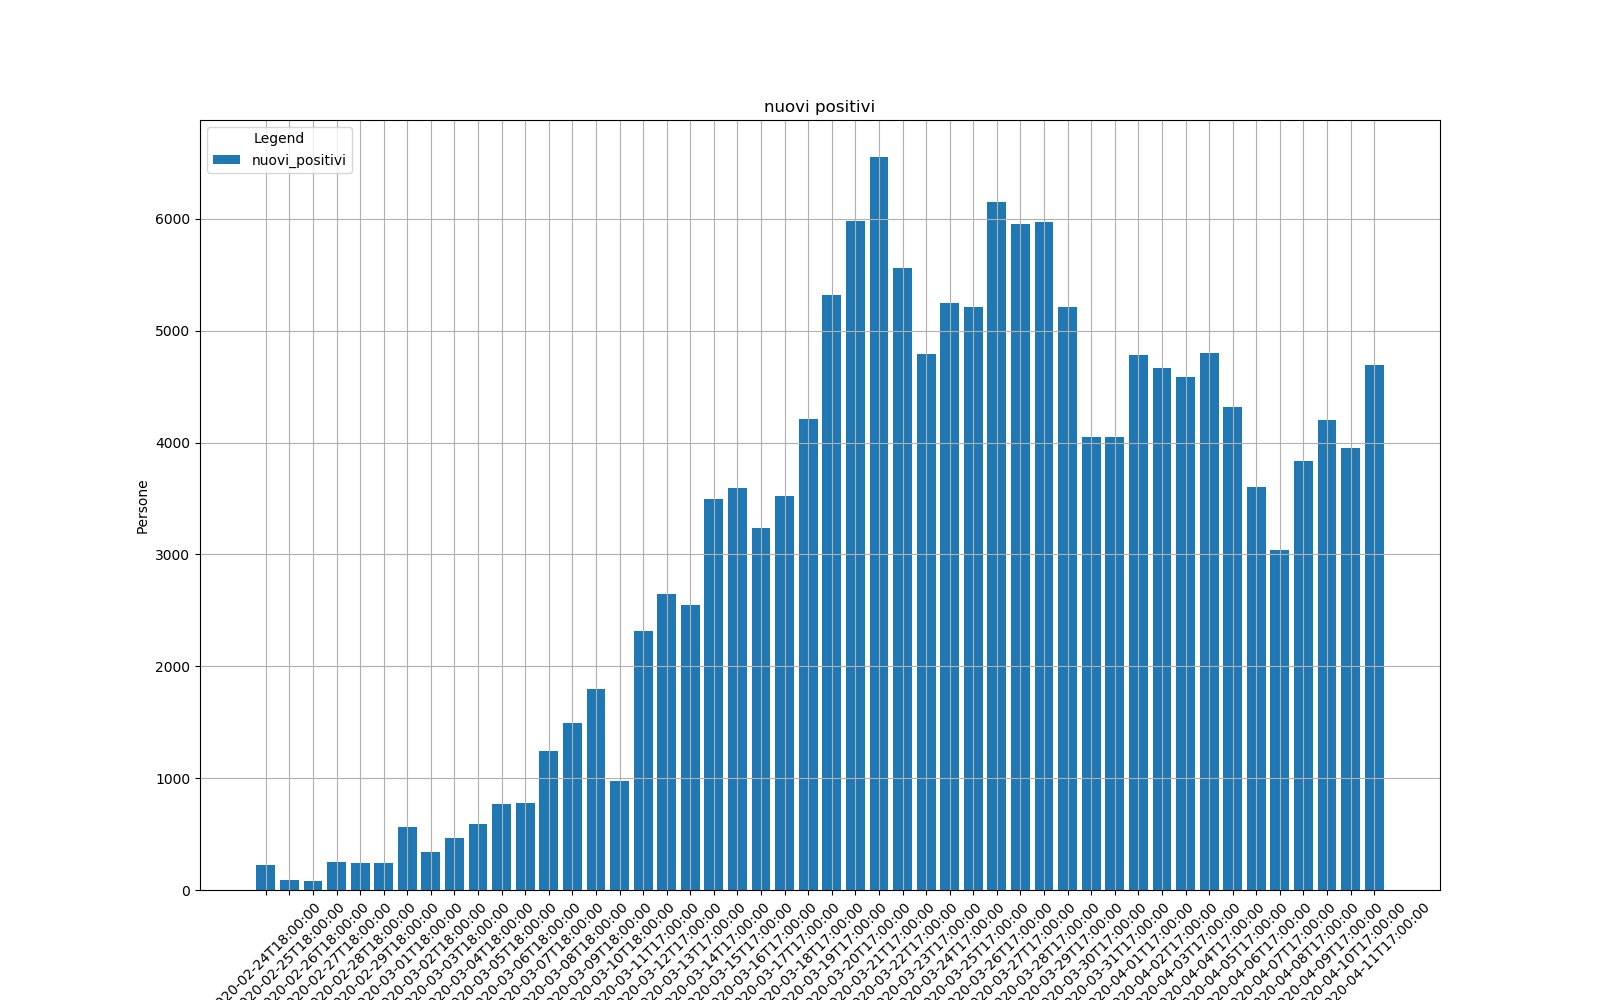
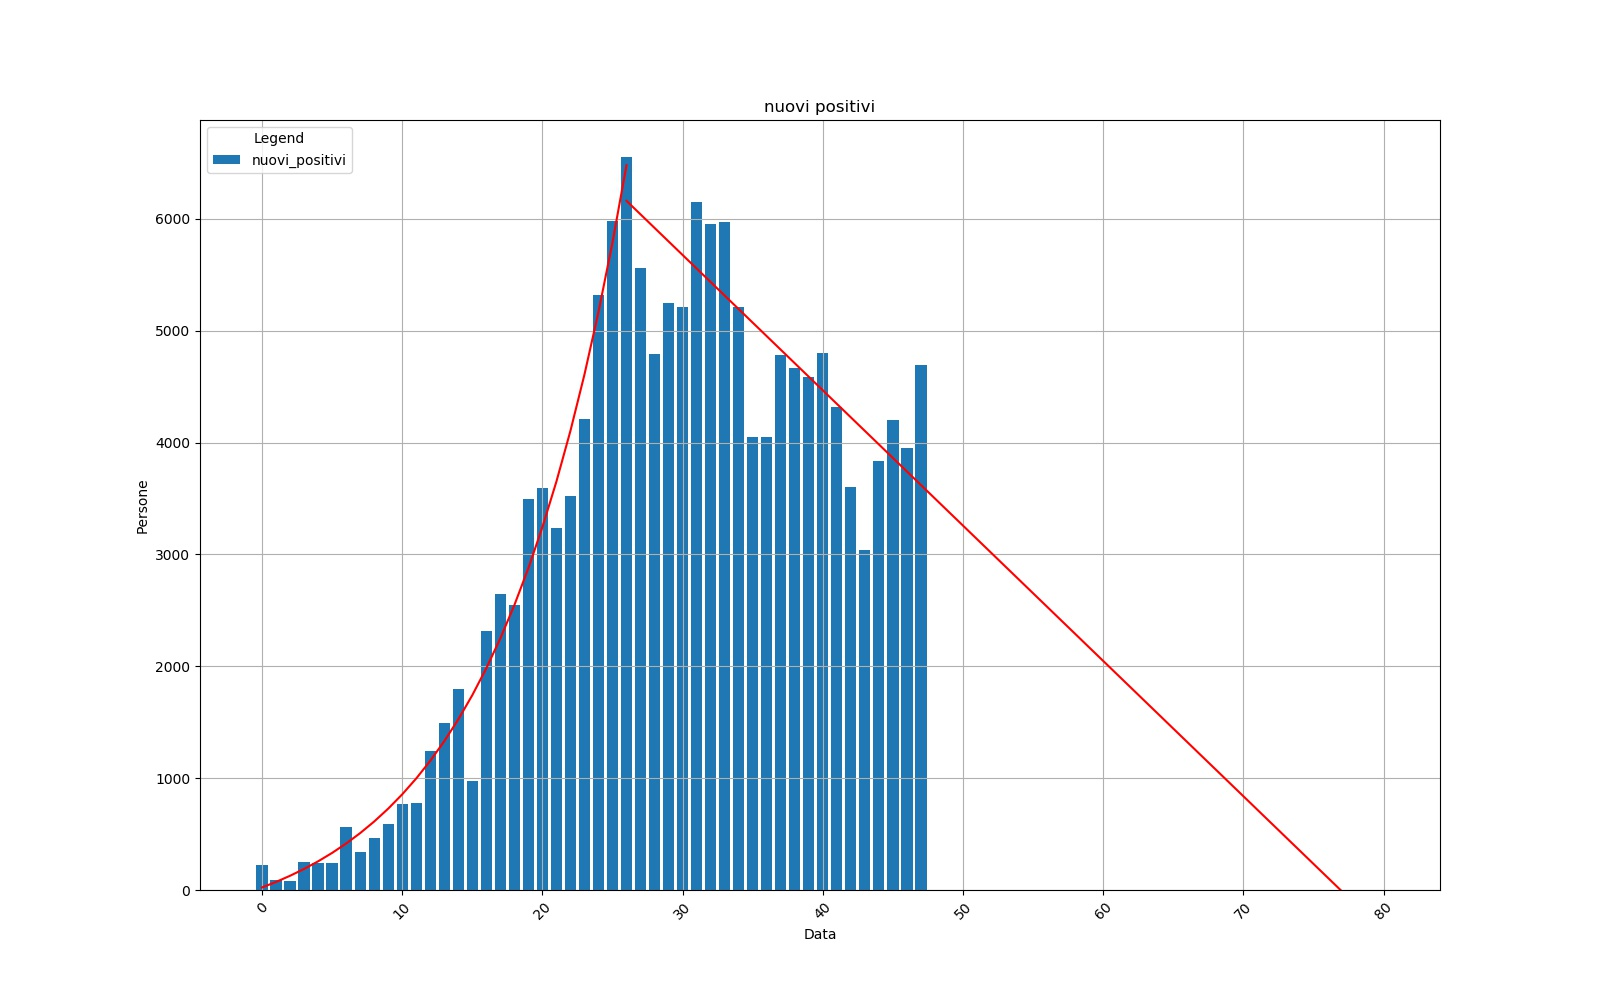
ADD: regressione sulla linea di disces + variazione intorno alla retta di regressione

Changed region(s): [[0.125, 0.155, 0.9062, 1.0]]

diff --git a/main.py b/main.py
@@ -30,6 +30,21 @@ def plot(x, y, title, x_label, y_label, plot_x_size, plot_y_size, legend, fignam
     plt.savefig(figname)
     return
 
+def plot_pred(x, y, x_pred, y_pred, x_pred_exp, y_pred_exp, title, x_label, y_label, plot_x_size, plot_y_size, legend, figname, y_max=None, y_min=None):
+    plt.figure(figsize=(plot_x_size, plot_y_size))
+    plt.title(title)
+    plt.xlabel(x_label)
+    plt.ylabel(y_label)
+    plt.xticks(rotation=45)
+    plt.grid()
+    plt.bar(x, y, label=str(legend))
+    plt.legend(loc="upper left", ncol=2, title="Legend", fancybox=True)
+    plt.ylim(ymax=y_max, ymin=y_min)
+    plt.plot(x_pred, y_pred, color='r')
+    plt.plot(x_pred_exp, y_pred_exp, color='r')
+    plt.savefig(figname)
+    return
+
 def scatter(x, y, title, x_label, y_label, plot_x_size, plot_y_size, legend, figname, y_max=None, y_min=None):
     plt.figure(figsize=(plot_x_size, plot_y_size))
     plt.title(title)
@@ -77,7 +92,30 @@ for column in DataFrame:
         figname = str(column+".jpg")
         title = str(column).replace("_"," ")
         if column == "nuovi_positivi":
-            bar(x, y, title, x_label, y_label, plot_x_size, plot_y_size, legend, figname)
+            # Linear regression after peak
+            from sklearn.linear_model import LinearRegression
+            y_l = np.array(DataFrame.nuovi_positivi[31:]).reshape(-1, 1)
+            x_l = np.array(DataFrame.index[31:]).reshape(-1, 1)
+            model = LinearRegression().fit(x_l, y_l)
+            r_sq = model.score(x_l, y_l)
+            # Use prediction to compute the zero
+            x_pred_y0 = - model.intercept_ / model.coef_ - (DataFrame.index[-1] - DataFrame.index[26])
+            x_pred = pd.Series(np.array(range(26, int(x_pred_y0)+26)))
+            y_pred = int(model.coef_) * x_pred + int(model.intercept_)
+            from scipy.optimize import curve_fit
+            x_exp = np.array(range(len(DataFrame.data[:26+1])))
+            y_exp = np.array(DataFrame.nuovi_positivi[:26+1])
+            def expon(x, a, b, c, d):
+                return a * np.exp(b * x + c) + d
+            init_vals = [1, 1, 1, 1]
+            best_vals, covar = curve_fit(expon, x_exp, y_exp, p0=init_vals)
+            y_pred_exp = best_vals[0] * np.exp(best_vals[1] * x_exp + best_vals[2]) + best_vals[3]
+            poly_fit = np.polyfit(x_exp, y_exp, 2)
+            y_pred_exp = np.exp(poly_fit[1]) * np.exp(poly_fit[0] * x_exp)
+            x = pd.Series(range(len(DataFrame.data)))
+            plot_pred(x, y, x_pred, y_pred, x_exp, y_pred_exp, title, x_label, y_label, plot_x_size, plot_y_size, legend, figname)
+            delta = np.array(y[26:]) - np.array(y_pred[:len(y[26:])])
+            plot(pd.Series(range(26,len(delta)+26)), delta, 'Variazione intorno regressione lineare (picchi generalmente equispaziati di 7 giorni dovuti a weekends)', 'Data (dal picco avuto il 26esimo giorno)', 'Persone - sqrt((Misurati - Retta di Regaressione)^2)', plot_x_size=10, plot_y_size=10, legend='', figname='Variazione intorno regressione lineare.jpg')
         else:
             plot(x, y, title, x_label, y_label, plot_x_size, plot_y_size, legend, figname)
         continue
@@ -238,10 +276,7 @@ for i in range(0,len(x)):
 
 
 # Nuovi positivi vs. tamponi giornalieri
-colors=pd.Series(range(len(DataFrame.data)))/max(pd.Series(range(len(DataFrame.data))))
 scatter(DataFrame.tamponi.diff(), DataFrame.nuovi_positivi, title='Nuovi positivi giornalieri vs. Tamponi giornalieri', x_label='Tamponi giornalieri', y_label='Nuovi positivi', plot_x_size=10, plot_y_size=10, legend=' ', figname='Nuovi positivi giornalieri vs. Tamponi giornalieri.jpg')
-# df_tg_vs_np=pd.DataFrame()
-# df_tg_vs_np['tamponi']=DataFrame.tamponi.diff()
-# df_tg_vs_np['nuovi_positivi']=DataFrame.nuovi_positivi
-# df_tg_vs_np['colors']=pd.Series(range(len(DataFrame.data)))/max(pd.Series(range(len(DataFrame.data))))
-# # df_tg_vs_np.plot.scatter(x='tamponi', y='nuovi_positivi', c='colors')
+
+
+

diff --git a/prediction_seir_model.py b/prediction_seir_model.py
@@ -1,6 +1,7 @@
-'# Author: Stefano Bergamini
+'''
+Author: Stefano Bergamini
 # Source: https://github.com/coronafighter/coronaSEIR/blob/master/main_coronaSEIR.py
-
+'''
 import pandas as pd
 import numpy as np
 import statistics
@@ -170,4 +171,3 @@ def plt_SEIR_model(t, S, E, I, R, tempo_misurati, positivi_misurati, N, beta, ga
 #       p.start()
 #     for p in processes:
 #       p.join()
-'

diff --git a/multi-process-calibration.py b/multi-process-calibration.py
@@ -1,5 +1,6 @@
-# Author: Stefano Bergamini
-
+'''
+Author: Stefano Bergamini
+'''
 import pandas as pd
 import numpy as np
 import multiprocessing as mp
